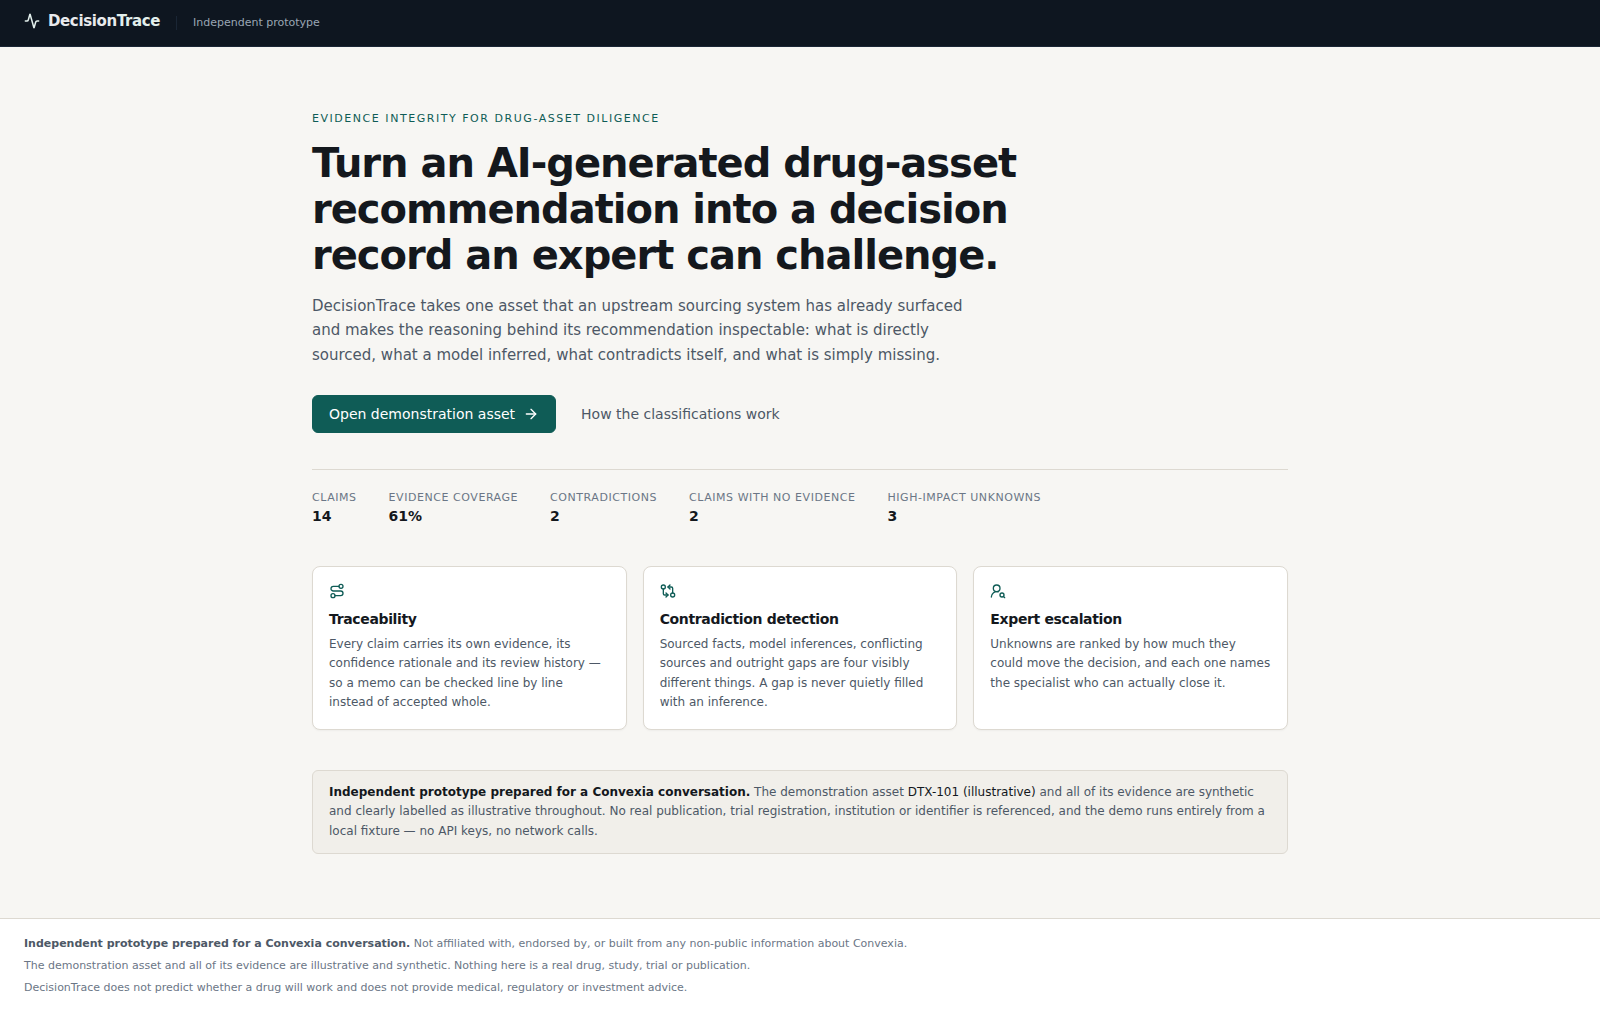
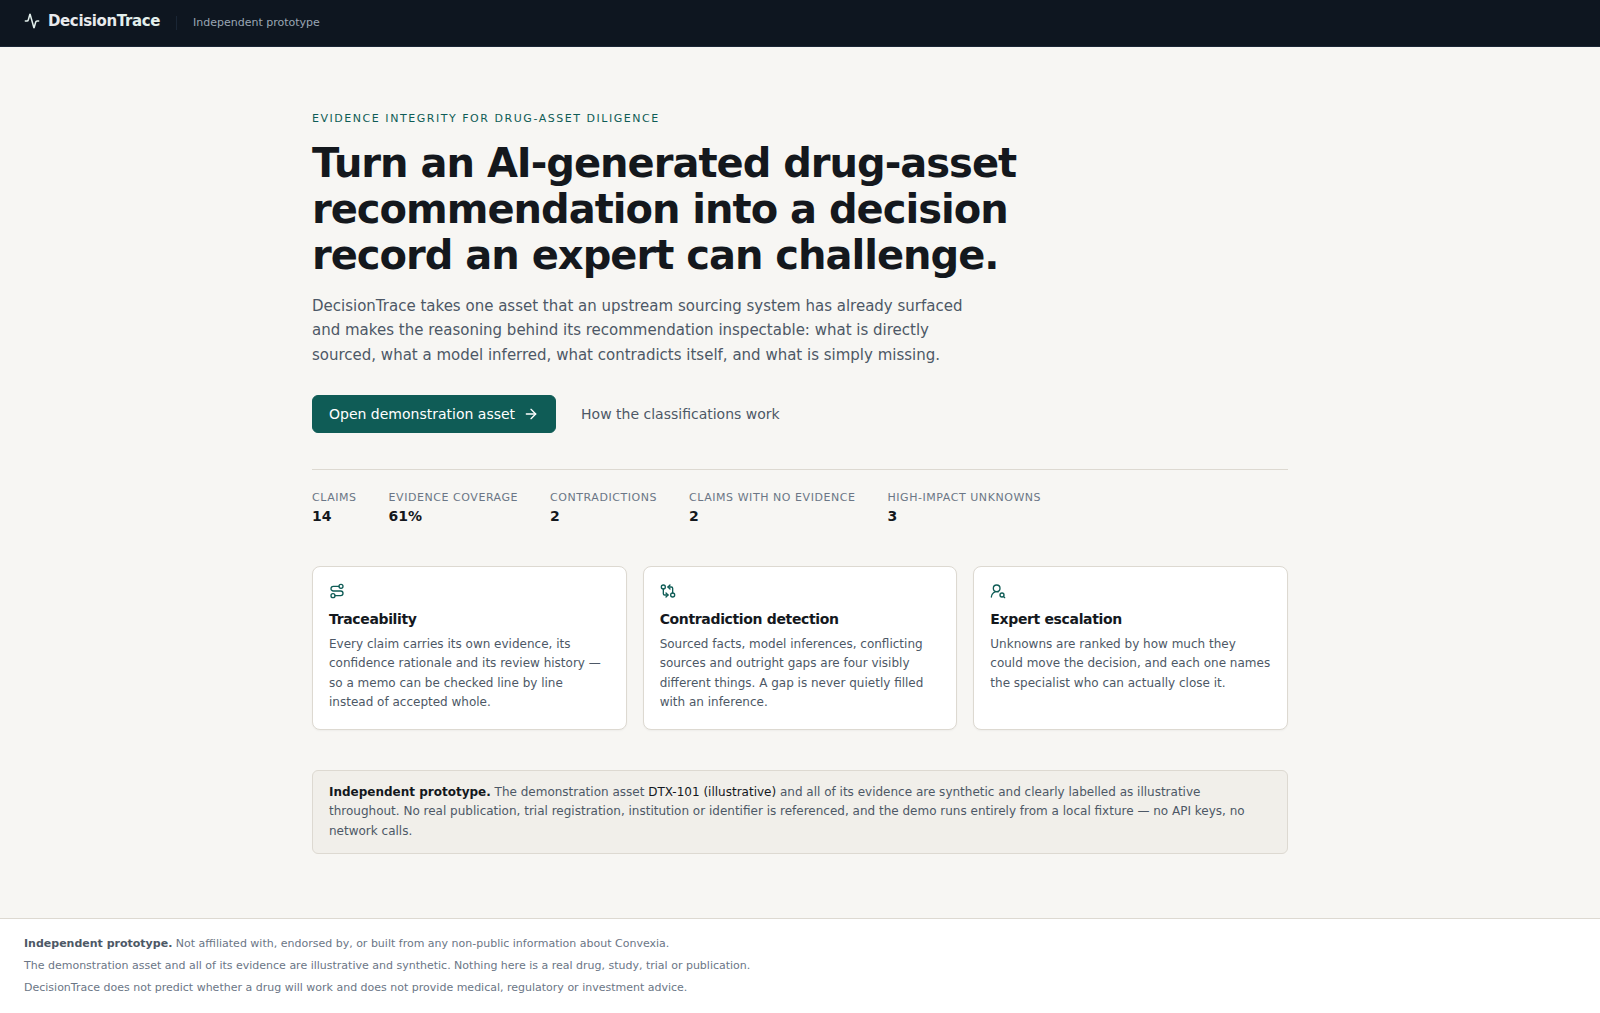
Shorten prototype disclaimer to "Independent prototype."
Removes the "prepared for a Convexia conversation" framing from the
landing page disclaimer box, the footer and the print decision memo.
The memo was not in the reported screenshot but carried the same
sentence; leaving it inconsistent would have been worse.

Collapses PROTOTYPE_LABEL and PROTOTYPE_DISCLAIMER into one constant,
since they now differ only by a full stop. Keeps the substantive
non-affiliation sentence in the footer, which was not in scope.

Updates the two tests that asserted the old string.

Verified: format, lint, typecheck, 116 unit tests, build, 10/10 e2e,
20 responsive checks with no overflow; screenshots regenerated.

Claude-Session: https://claude.ai/code/session_01YXQ9ZvtjA6rNsmrbaVhM7s

Changed region(s): [[0.1875, 0.7651, 0.7812, 0.8263], [0.0938, 0.9181, 0.5625, 0.9487]]

diff --git a/src/components/layout/AppShell.tsx b/src/components/layout/AppShell.tsx
@@ -2,10 +2,8 @@ import Link from "next/link";
 import type { ReactNode } from "react";
 import { Activity } from "lucide-react";
 
-/** Short chrome label. The full statement stays in the footer and the memo. */
+/** Fixed prototype label, used in the header, footer, landing page and print memo. */
 export const PROTOTYPE_LABEL = "Independent prototype";
-/** Fixed disclaimer text, used in the footer, landing page and print memo. */
-export const PROTOTYPE_DISCLAIMER = "Independent prototype prepared for a Convexia conversation.";
 export const ILLUSTRATIVE_DISCLAIMER =
   "The demonstration asset and all of its evidence are illustrative and synthetic. Nothing here is a real drug, study, trial or publication.";
 
@@ -43,7 +41,7 @@ export function AppFooter() {
     <footer className="dt-no-print border-t border-line bg-surface">
       <div className="mx-auto flex max-w-[1600px] flex-col gap-1 px-4 py-4 text-[11px] leading-relaxed text-ink-subtle sm:px-6">
         <p>
-          <strong className="font-semibold text-ink-muted">{PROTOTYPE_DISCLAIMER}</strong> Not
+          <strong className="font-semibold text-ink-muted">{PROTOTYPE_LABEL}.</strong> Not
           affiliated with, endorsed by, or built from any non-public information about Convexia.
         </p>
         <p>{ILLUSTRATIVE_DISCLAIMER}</p>

diff --git a/src/app/page.tsx b/src/app/page.tsx
@@ -6,7 +6,7 @@ import {
   AppFooter,
   AppHeader,
   MAIN_CONTENT_ID,
-  PROTOTYPE_DISCLAIMER,
+  PROTOTYPE_LABEL,
   SkipLink,
 } from "@/components/layout/AppShell";
 
@@ -112,7 +112,7 @@ export default function LandingPage() {
 
           <div className="mt-10 rounded-md border border-line bg-surface-muted px-4 py-3">
             <p className="text-xs leading-relaxed text-ink-muted">
-              <strong className="font-semibold text-ink">{PROTOTYPE_DISCLAIMER}</strong> The
+              <strong className="font-semibold text-ink">{PROTOTYPE_LABEL}.</strong> The
               demonstration asset <span className="font-medium text-ink">{asset.name}</span> and all
               of its evidence are synthetic and clearly labelled as illustrative throughout. No real
               publication, trial registration, institution or identifier is referenced, and the demo

diff --git a/src/components/workspace/DecisionMemo.tsx b/src/components/workspace/DecisionMemo.tsx
@@ -13,7 +13,7 @@ import {
   REVIEW_STATUS_ORDER,
   formatTimestamp,
 } from "@/domain/labels";
-import { ILLUSTRATIVE_DISCLAIMER, PROTOTYPE_DISCLAIMER } from "@/components/layout/AppShell";
+import { ILLUSTRATIVE_DISCLAIMER, PROTOTYPE_LABEL } from "@/components/layout/AppShell";
 
 /**
  * Print-only decision memo.
@@ -40,7 +40,7 @@ export function DecisionMemo({ asset, summary }: { asset: Asset; summary: AssetS
           {formatTimestamp(asset.updatedAt)} UTC.
           {generatedAt ? ` Memo generated ${formatTimestamp(generatedAt)} UTC.` : ""}
         </p>
-        <p className="mt-2 text-xs font-semibold">{PROTOTYPE_DISCLAIMER}</p>
+        <p className="mt-2 text-xs font-semibold">{PROTOTYPE_LABEL}.</p>
         <p className="text-xs">{ILLUSTRATIVE_DISCLAIMER}</p>
       </header>
 

diff --git a/tests/e2e/smoke.spec.ts b/tests/e2e/smoke.spec.ts
@@ -22,9 +22,7 @@ test("landing page reaches the demonstration asset in one click", async ({ page 
   await expect(page.getByRole("heading", { level: 1 })).toContainText(
     "decision record an expert can challenge",
   );
-  await expect(
-    page.getByText("Independent prototype prepared for a Convexia conversation.").first(),
-  ).toBeVisible();
+  await expect(page.getByText("Independent prototype.").first()).toBeVisible();
 
   await page.getByRole("link", { name: /Open demonstration asset/ }).click();
   await expect(page).toHaveURL(/\/assets\/demo-asset$/);

diff --git a/tests/unit/unknowns-memo.test.tsx b/tests/unit/unknowns-memo.test.tsx
@@ -92,9 +92,7 @@ describe("DecisionMemo", () => {
 
   it("carries the prototype and illustrative-data disclaimers", () => {
     const { container } = render(<DecisionMemo asset={asset} summary={summary} />);
-    expect(
-      screen.getByText("Independent prototype prepared for a Convexia conversation."),
-    ).toBeInTheDocument();
+    expect(screen.getByText("Independent prototype.")).toBeInTheDocument();
     expect(container.textContent).toContain("illustrative and synthetic");
   });
 

diff --git a/PROGRESS.md b/PROGRESS.md
@@ -388,3 +388,15 @@ The header chip now reads **"Independent prototype"** (`PROTOTYPE_LABEL`). The f
 The floating "N" badge at the bottom-left was the Next.js dev-mode indicator, not application UI. Disabled with `devIndicators: false` in `next.config.ts`, per the bundled Next 16 reference (`appIsrStatus`, `buildActivity` and `buildActivityPosition` were removed in v16; the whole indicator is switched off with `false`). It only ever rendered under `next dev`, never in a production build, but it sat over the workspace during a live demo. Compile and runtime errors are still surfaced. Confirmed absent in a real `next dev` session.
 
 **Full re-verification after all three changes:** `npm run verify` pass (format, lint, typecheck, 116 unit tests, build) · `npm run test:e2e` 10/10 pass · no horizontal overflow at any width · screenshots regenerated.
+
+### 4. "prepared for a Convexia conversation" removed
+
+The prototype disclaimer now reads simply **"Independent prototype."** everywhere it appears: the landing page's disclaimer box, the site footer, and the print decision memo (the memo was not in the reported screenshot but carried the same sentence, and leaving it inconsistent would have been worse).
+
+`PROTOTYPE_LABEL` and `PROTOTYPE_DISCLAIMER` were collapsed into a single `PROTOTYPE_LABEL` constant, since after the change they differed only by a full stop. The sentence that follows in the footer — "Not affiliated with, endorsed by, or built from any non-public information about Convexia." — was deliberately left in place: it is the substantive non-affiliation statement, and only the framing phrase was asked to be removed.
+
+Two tests asserted the old string (one unit, one e2e) and were updated.
+
+**Verification:** format, lint, typecheck, 116 unit tests, build and 10/10 e2e all pass; 20 responsive layout checks with no overflow; screenshots regenerated. Confirmed in a browser that the phrase no longer appears anywhere on the rendered landing page, footer or print memo.
+
+Two stale-state traps surfaced during this pass, both environmental rather than code defects: a `.env.local` left behind by an earlier adapter test made the adapter appear enabled (`502` instead of the expected `503`), and Playwright's `reuseExistingServer` then reused a server that had booted while that file still existed. Removing the file and stopping the helper server restored a clean 10/10.
